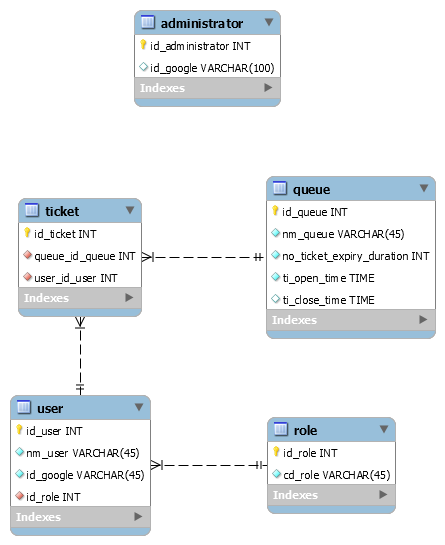
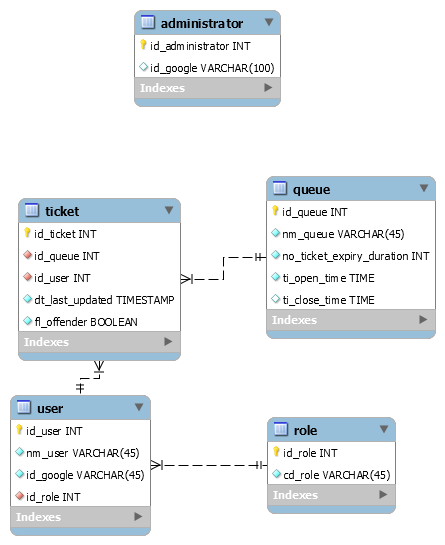
synchronocity, also updating model docs. marking offenders in db

diff --git a/src/main/java/com/qq/queue/QueueRunnable.java b/src/main/java/com/qq/queue/QueueRunnable.java
@@ -41,7 +41,7 @@ public class QueueRunnable extends Observable implements Runnable
     public void run()
     {
         User headUser;
-        List<User> offendingUsers = new ArrayList<User>();
+        // List<User> offendingUsers = new ArrayList<User>();
         long waitTime = queue.getTicketExpiryDuration() * 1000;
         try
         {
@@ -59,12 +59,16 @@ public class QueueRunnable extends Observable implements Runnable
                 }
                 headUser = userFacade.getUserById( ticket.getUserId() );
 
-                // Notify observers that we're waiting for acceptance of a notification
+                // Notify observers that we're waiting for acceptance of a
+                // notification
                 notifyObservers(
                     new QueueState( ticket, QueueStateConstants.WAITING, false ) );
-                
+
                 // Wait for notification from queue manager or waitTime
-                this.wait( waitTime );
+                synchronized ( this )
+                {
+                    wait( waitTime );
+                }
 
                 if ( acceptedNotification )
                 {
@@ -73,15 +77,21 @@ public class QueueRunnable extends Observable implements Runnable
                     // Notify observers of acknowledgement of acceptance
                     notifyObservers( new QueueState( ticket,
                         QueueStateConstants.ACCEPTED, false ) );
-                    this.wait();
+                    synchronized ( this )
+                    {
+                        wait();
+                    }
+
                     ticketFacade.deleteTicketById( ticket.getTicketId() + "" );
                 }
                 else
                 {
-                    if ( offendingUsers.contains( headUser ) )
+                    // They didn't accept the notification in time
+                    // if ( offendingUsers.contains( headUser ) )
+                    if ( ticket.isOffender() )
                     {
                         // Remove the re-offender
-                        offendingUsers.remove( headUser );
+                        // offendingUsers.remove( headUser );
                         ticketFacade.deleteTicketById( ticket.getTicketId() + "" );
                         LoggerUtil.getLogger().info( headUser.getUserName()
                                 + " did not accept notification and was removed from queue" );
@@ -91,13 +101,13 @@ public class QueueRunnable extends Observable implements Runnable
                         // Mark them as an offender
                         LoggerUtil.getLogger().info( headUser.getUserName()
                                 + " did not accept notification and was requeued" );
-                        offendingUsers.add( headUser );
+                        ticket.setOffender( true );
                         ticket.setLastUpdated(
                             new Timestamp( System.currentTimeMillis() ) );
                         ticketFacade.updateTicket( ticket );
                     }
                 }
-                
+
                 // Notify observers that the tickets have updated
                 notifyObservers(
                     new QueueState( null, QueueStateConstants.RUNNING, true ) );

diff --git a/src/main/java/com/qq/model/Ticket.java b/src/main/java/com/qq/model/Ticket.java
@@ -21,6 +21,19 @@ public class Ticket
 
     @DatabaseField(columnName = "dt_last_updated")
     private Timestamp lastUpdated;
+    
+    @DatabaseField(columnName = "fl_offender")
+    private boolean offender = false;
+
+    public boolean isOffender()
+    {
+        return offender;
+    }
+
+    public void setOffender( boolean offender )
+    {
+        this.offender = offender;
+    }
 
     public int getTicketId()
     {

diff --git a/src/main/java/com/qq/route/service/InteractionRoute.java b/src/main/java/com/qq/route/service/InteractionRoute.java
@@ -29,7 +29,7 @@ public class InteractionRoute extends RegistrableRoute
     {
         super( connectionSource );
         queueManager = QueueManager.getInstance( );
-//        queueManager.startAllQueues();
+        queueManager.startAllQueues();
     }
 
     @Override
